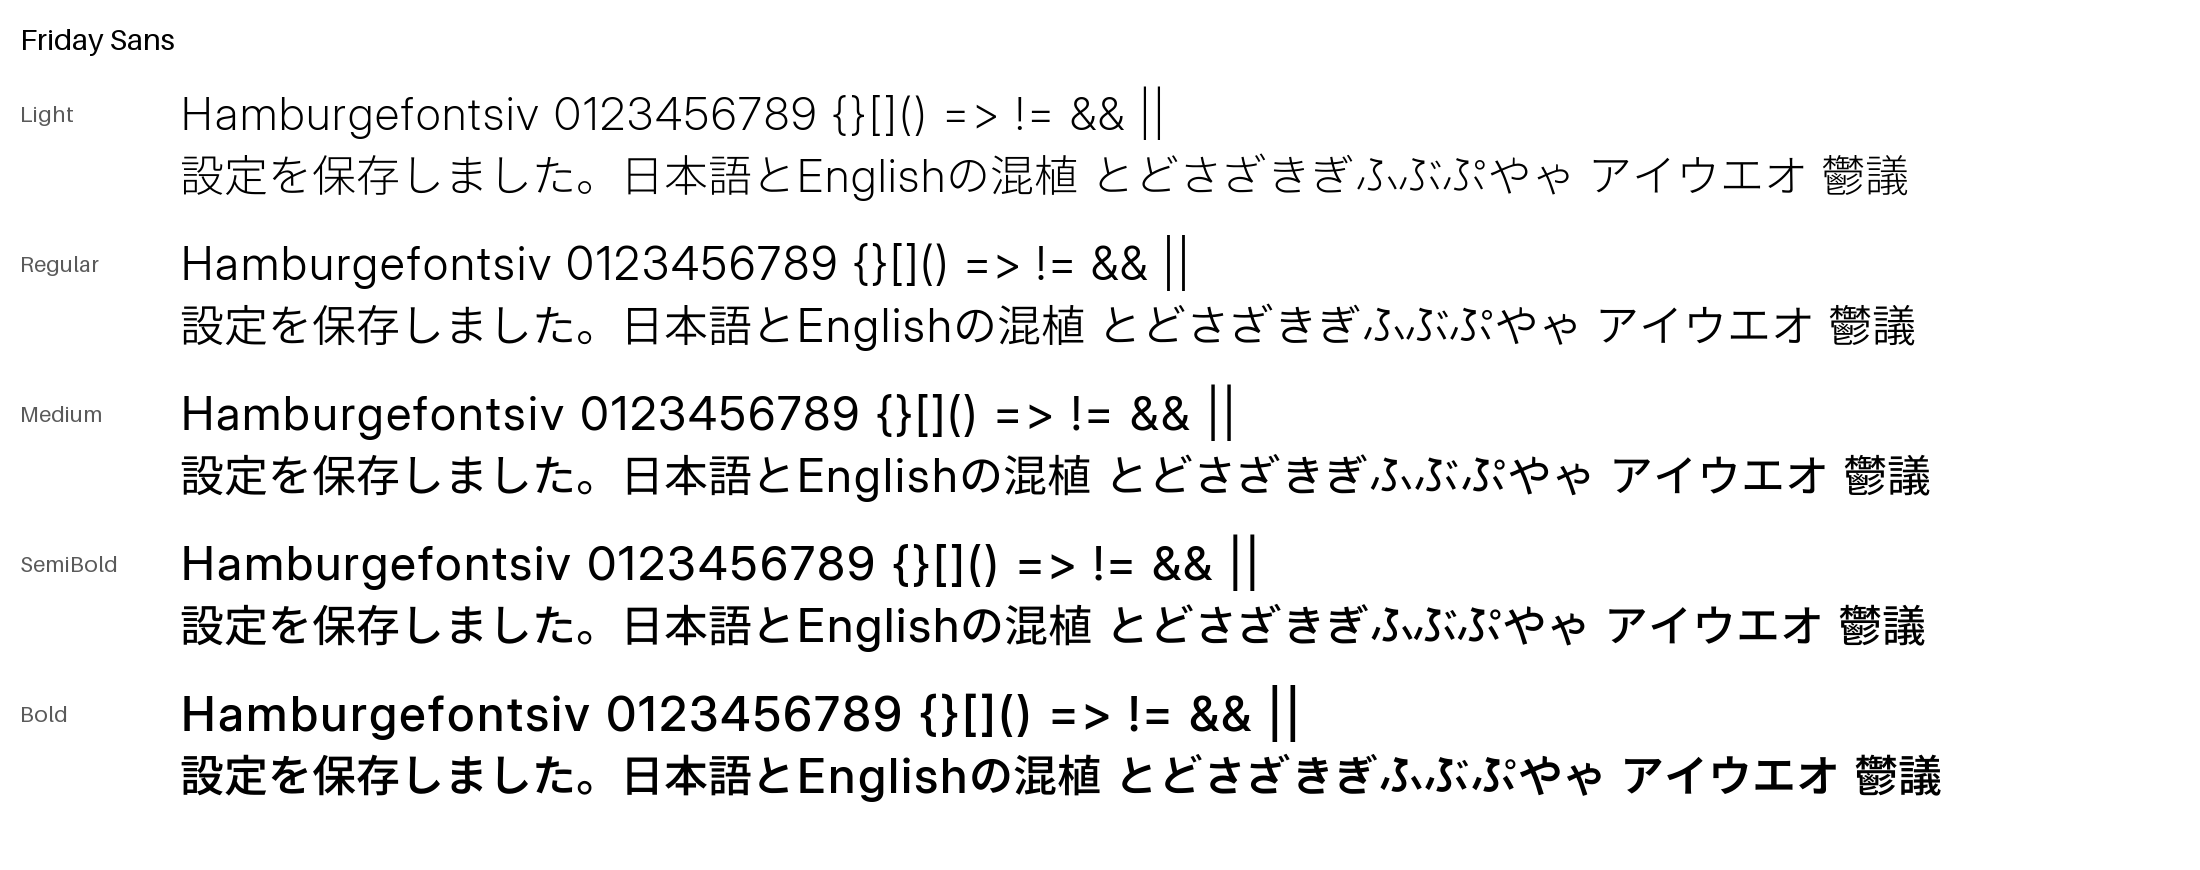
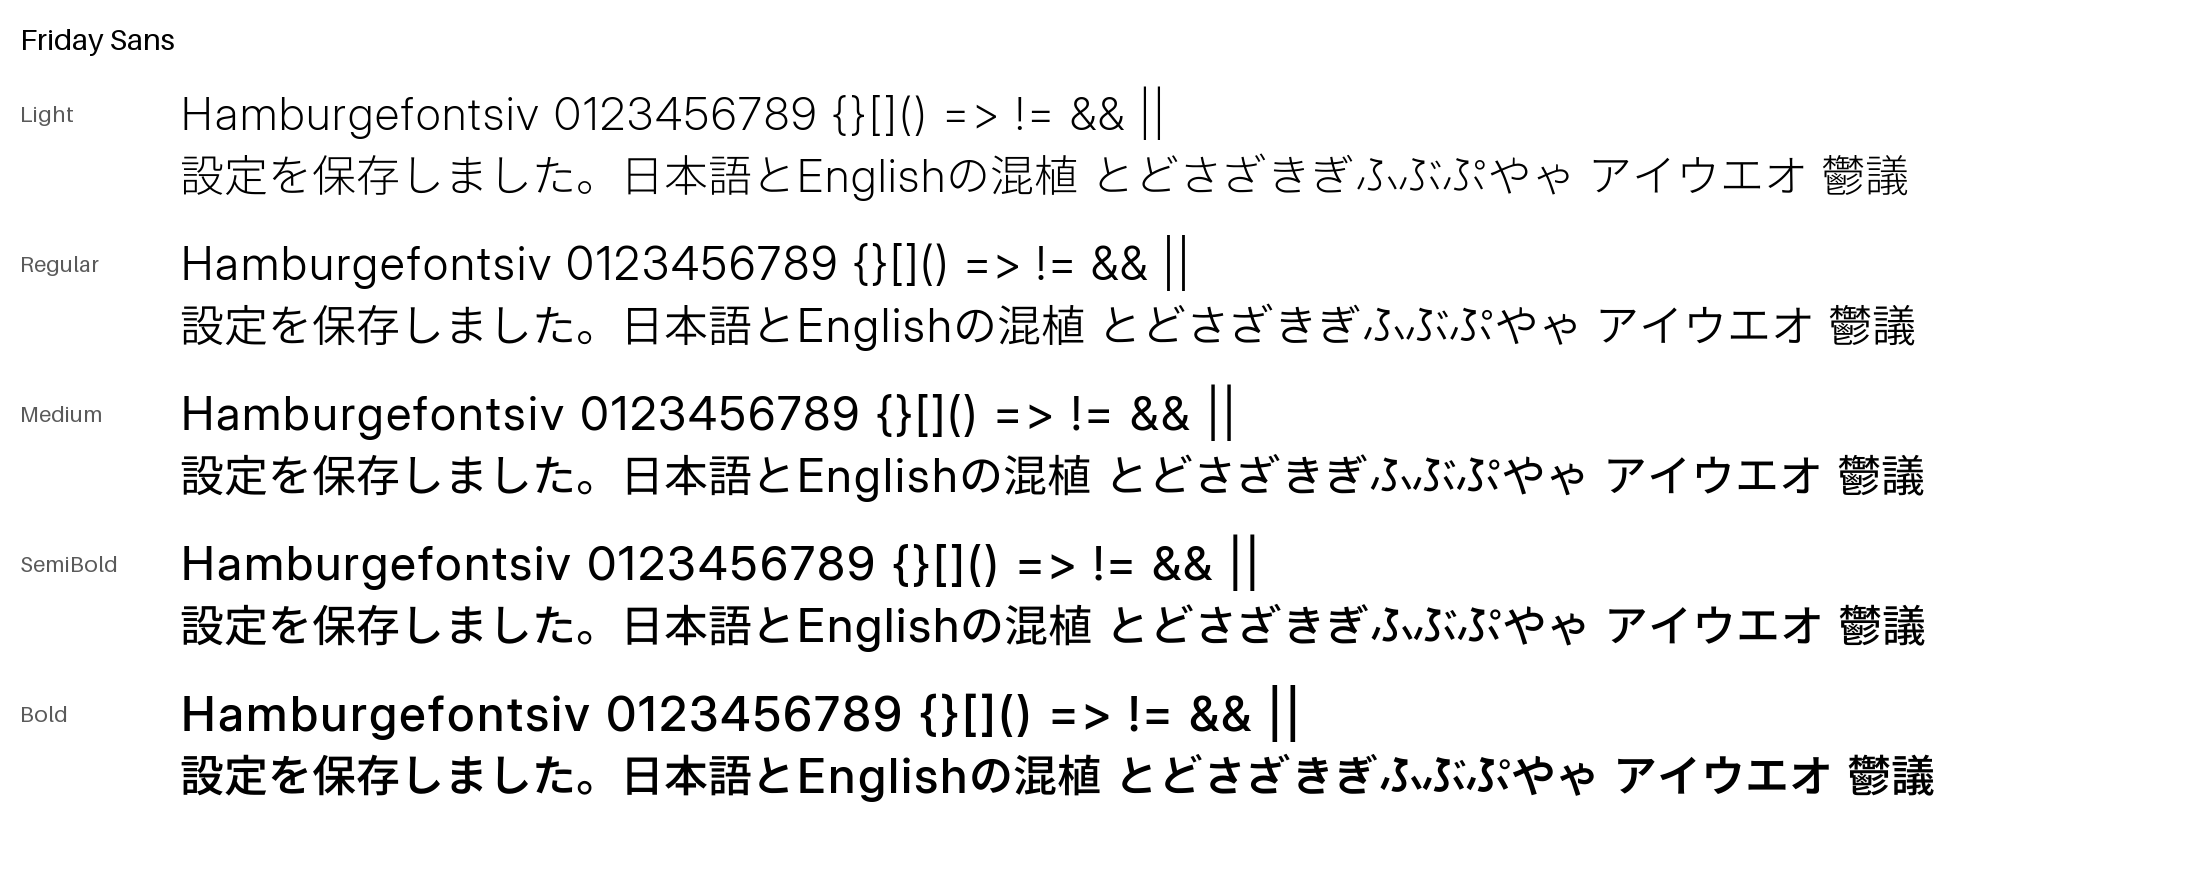
Fix Friday Sans Medium/Bold ぶ ぷ advances (1064-1083 -> 1000)
Since Sans 1.1, any glyph whose ink crossed its cell was refit as if it
were a proportional Noto symbol, with advance = ink + 100 and the glyph
centred. Once thickened, the hand-drawn ぶ and ぷ reach 2-10 units past
x=0, so Medium and Bold shipped them 1064-1083 wide and about 50 units
to the right, in their vertical forms too.

release_sans now moves both forms back to the CJK master's position and
sets the advance to 1000. It moves the centred mark anchor by the same
amount. It asserts that only these 4 glyphs and 2 anchors change.

Changed region(s): [[0.6491, 0.869, 0.8964, 0.931], [0.6491, 0.5276, 0.8964, 0.5897]]

diff --git a/weights/release_sans.py b/weights/release_sans.py
@@ -25,6 +25,60 @@ WEIGHT = {'Light': 300, 'Regular': 400, 'Medium': 500, 'SemiBold': 600, 'Bold': 
 FAMILIES = [('sans', 'Friday Sans', 'Friday Sans 2.5: proportional Japanese text face (Inter + Noto Sans CJK JP + hand-drawn kana). Windows RC3 candidate promoted to release; Light and SemiBold added.'),
             ('ui', 'Friday Sans UI', 'Friday Sans UI 2.5: Friday Sans sized and spaced for interface text. Windows RC3 candidate promoted to release; Light and SemiBold added.')]
 from fontTools.ttLib import TTFont
+import pickle, sys
+sys.path.insert(0, str(FF)); sys.path.insert(0, str(FF / 'tools'))
+import shapes
+
+# Friday Sans 1.1 refit every Japanese glyph whose ink crossed its cell as if
+# it were a proportional Noto symbol (advance = ink + 100, centred).  The
+# hand-drawn ぶ ぷ cross x=0 by 2-10 units once thickened, so Medium and Bold
+# shipped them 1064-1083 wide and about 50 units to the right, in their
+# vertical forms too.  They go back to the 1000 cell at the CJK master's own
+# position; the centre mark anchor moves with them.  Sans UI refits kana to
+# its own widths and is unaffected; Light / SemiBold were built without it.
+WIDE_KANA = {'jp.uni3076': 'jp.glyph65210', 'jp.uni3077': 'jp.glyph65211'}
+CJK_MASTER = str(ROOT / 'InoriMono-v3-build/sans/work/cjk-%s.pkl')
+
+
+def repair_wide_kana(f, style):
+    """Return the glyphs changed; asserts the shipped state it repairs."""
+    master = pickle.load(open(CJK_MASTER % style, 'rb'))
+    glyf, hmtx = f['glyf'], f['hmtx']
+    changed, shifts = [], {}
+    for name, vertical in WIDE_KANA.items():
+        rec, cell = master['glyphs'][name[3:]]
+        assert cell == 1000
+        target = round(shapes.bbox(rec)[0])
+        g = glyf[name]; g.recalcBounds(glyf)
+        adv, lsb = hmtx[name]
+        if adv == 1000:
+            continue
+        assert lsb == g.xMin == 50 and target < 0 and hmtx[vertical] == (1000, 50), (style, name)
+        dx = target - g.xMin
+        for n in (name, vertical):
+            h = glyf[n]
+            assert not h.isComposite() and not getattr(h, 'program', None) or not h.program.getBytecode()
+            h.coordinates.translate((dx, 0)); h.recalcBounds(glyf)
+            hmtx[n] = (1000, h.xMin)
+            changed.append(n)
+        shifts[name] = dx
+    if not shifts:
+        return []
+    moved = 0
+    for lookup in f['GPOS'].table.LookupList.Lookup:
+        for st in lookup.SubTable:
+            t = st.ExtSubTable if lookup.LookupType == 9 else st
+            if getattr(t, 'LookupType', lookup.LookupType) != 4:
+                continue
+            for name, record in zip(t.BaseCoverage.glyphs, t.BaseArray.BaseRecord):
+                if name in shifts:
+                    for anchor in record.BaseAnchor:
+                        # The dakuten anchor sits at a fixed x for every kana;
+                        # only the centred one followed the refit.
+                        if anchor is not None and anchor.XCoordinate != 940:
+                            anchor.XCoordinate += shifts[name]; moved += 1
+    assert moved == len(shifts), (style, moved)
+    return changed
 
 
 def sha(p):
@@ -57,6 +111,8 @@ def main():
             before = TTFont(source, recalcTimestamp=False)
             assert f['OS/2'].usWeightClass == WEIGHT[style], (source, f['OS/2'].usWeightClass)
             assert bool(f['OS/2'].fsSelection & 32) == (style == 'Bold')
+            repaired = repair_wide_kana(f, style) if key == 'sans' and style in ('Medium', 'Bold') else []
+            assert len(repaired) == (4 if key == 'sans' and style in ('Medium', 'Bold') else 0), (key, style, repaired)
             names(f, family, style, description)
             stem = family.replace(' ', '') + '-' + style
             path, web = OUT / 'ttf' / (stem + '.ttf'), OUT / 'web' / (stem + '.woff2')
@@ -64,9 +120,16 @@ def main():
             cur, w = TTFont(path, recalcTimestamp=False), TTFont(web)
             before['head'].fontRevision = cur['head'].fontRevision
             before['head'].checkSumAdjustment = cur['head'].checkSumAdjustment
+            touched = {'glyf', 'loca', 'hmtx', 'GPOS', 'hhea', 'head'} if repaired else set()
             for tag in before.keys():
-                if tag not in ('GlyphOrder', 'name'):
+                if tag not in ('GlyphOrder', 'name') and tag not in touched:
                     assert before.getTableData(tag) == cur.getTableData(tag), (stem, tag)
+            if repaired:
+                bg, cg = before['glyf'], cur['glyf']
+                diff = [n for n in cur.getGlyphOrder()
+                        if bg[n].getCoordinates(bg)[0] != cg[n].getCoordinates(cg)[0] or before['hmtx'][n] != cur['hmtx'][n]]
+                assert sorted(diff) == sorted(repaired), (stem, diff)
+                assert all(cur['hmtx'][n][0] == 1000 for n in repaired)
             for tag in cur.keys():
                 if tag not in ('GlyphOrder', 'head', 'glyf', 'loca'):
                     assert cur.getTableData(tag) == w.getTableData(tag), (stem, tag, 'woff2')
@@ -76,6 +139,7 @@ def main():
                              woff2=f'web/{stem}.woff2', sha256=sha(path), woff2_sha256=sha(web),
                              source=str(source.relative_to(ROOT)), source_sha256=sha(source),
                              source_family=before['name'].getDebugName(16), glyphs=len(cur.getGlyphOrder()),
+                             repaired_glyphs=repaired,
                              codepoints=len(cur.getBestCmap()), units_per_em=cur['head'].unitsPerEm))
             css.append('@font-face{font-family:"%s";src:url("%s.woff2") format("woff2");font-weight:%d;font-style:normal;font-display:swap;}'
                        % (family, stem, WEIGHT[style]))

diff --git a/sans/dist-2.5/README.md b/sans/dist-2.5/README.md
@@ -12,7 +12,9 @@ Windows検証候補RC3（WinProof Sans RC3 / WinProof Sans UI RC3）を正式名
 
 ## 2.1・RC3からの変更
 
-- Regular / Medium / BoldはRC3のファイルそのままです。変更は名前テーブル（ファミリー名・版・説明）とheadの版番号だけです。保存後、それ以外の全テーブルがRC3と完全一致することを確認しました。
+- Regular / Medium / BoldはRC3のファイルが元です。変更は次の2点だけで、それ以外の全テーブルがRC3と完全一致することを確認しました。
+  - 名前テーブル（ファミリー名・版・説明）とheadの版番号
+  - Friday SansのMedium・Boldで「ぶ・ぷ」の送り幅を直しました。1.1から、手描きの点が枠の左端を数単位越えたため、記号用の幅の計算（字の幅＋100）が誤って使われ、1064〜1083になっていました。横書き・縦書きの字を元の位置に戻して送り幅を1000にし、中心に付くマーク位置も同じ量だけ戻しました。変更は4字（横・縦×ぶ・ぷ）と、そのマーク位置2か所だけです。Sans UIは独自の幅を持つため影響はありません。
 - Light / SemiBoldは、Regular / Medium / Boldを作ったのと同じ工程を、2つのウェイトでもう一度通して作りました。
   1. 欧文はInter 4.1のwght / opsz軸から作りました。線幅と字面の高さがR/M/Bの間に入る値を求めています。
   2. 和文はNoto Sans CJK JPから、同じ方法で作りました。漢字の線幅を測りながら軸の値を決めています。
@@ -52,7 +54,7 @@ Windows検証候補RC3（WinProof Sans RC3 / WinProof Sans UI RC3）を正式名
 
 - **Light / SemiBoldはWindows実機で未確認です。** RC3のWindows検証（WPF・WinUI・Edge・GDI）はRegular / Medium / Boldが対象でした。
 - **新ウェイトの手描きかなは、ユーザーの目視承認を受けていません。** 承認済みの生成手順で作り、自動計測と見本で確認した段階です。
-- **既存の問題：MediumとBoldの「ぶ・ぷ」の送り幅が1000ではありません。** Mediumが1064 / 1065、Boldが1076 / 1083です。RC3から引き継いだもので、今回はR/M/Bを変更していません。Light / Regular / SemiBoldは1000です。
+- Medium・Boldの「ぶ・ぷ」の修正は、Windows実機での確認がまだです。修正前のRC3はWindows確認済みです。
 - RC3の報告にある制限（旧GDIの自動行間が広がる、小サイズの細い複雑記号）は全ウェイトに共通です。
 
 ## 再生成
